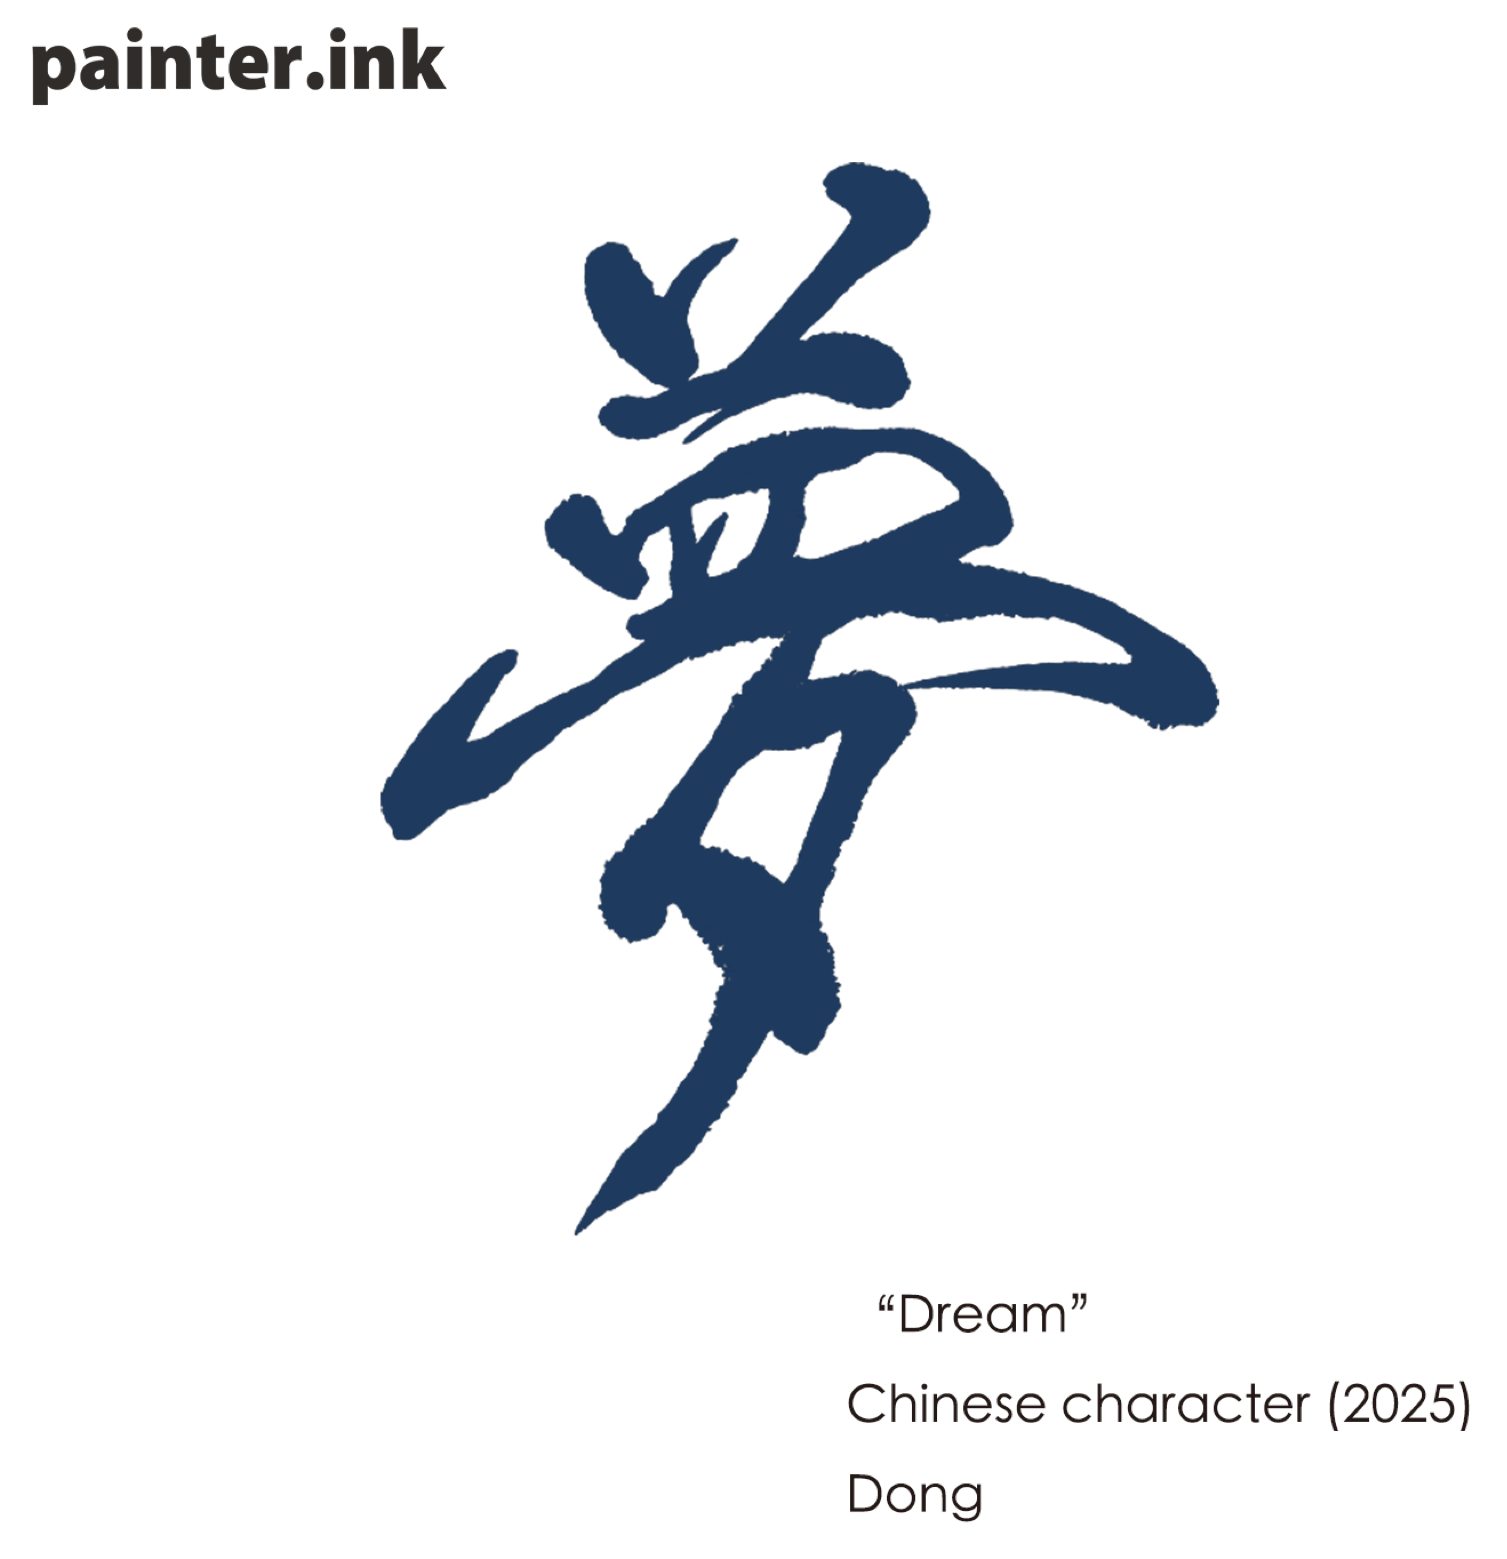
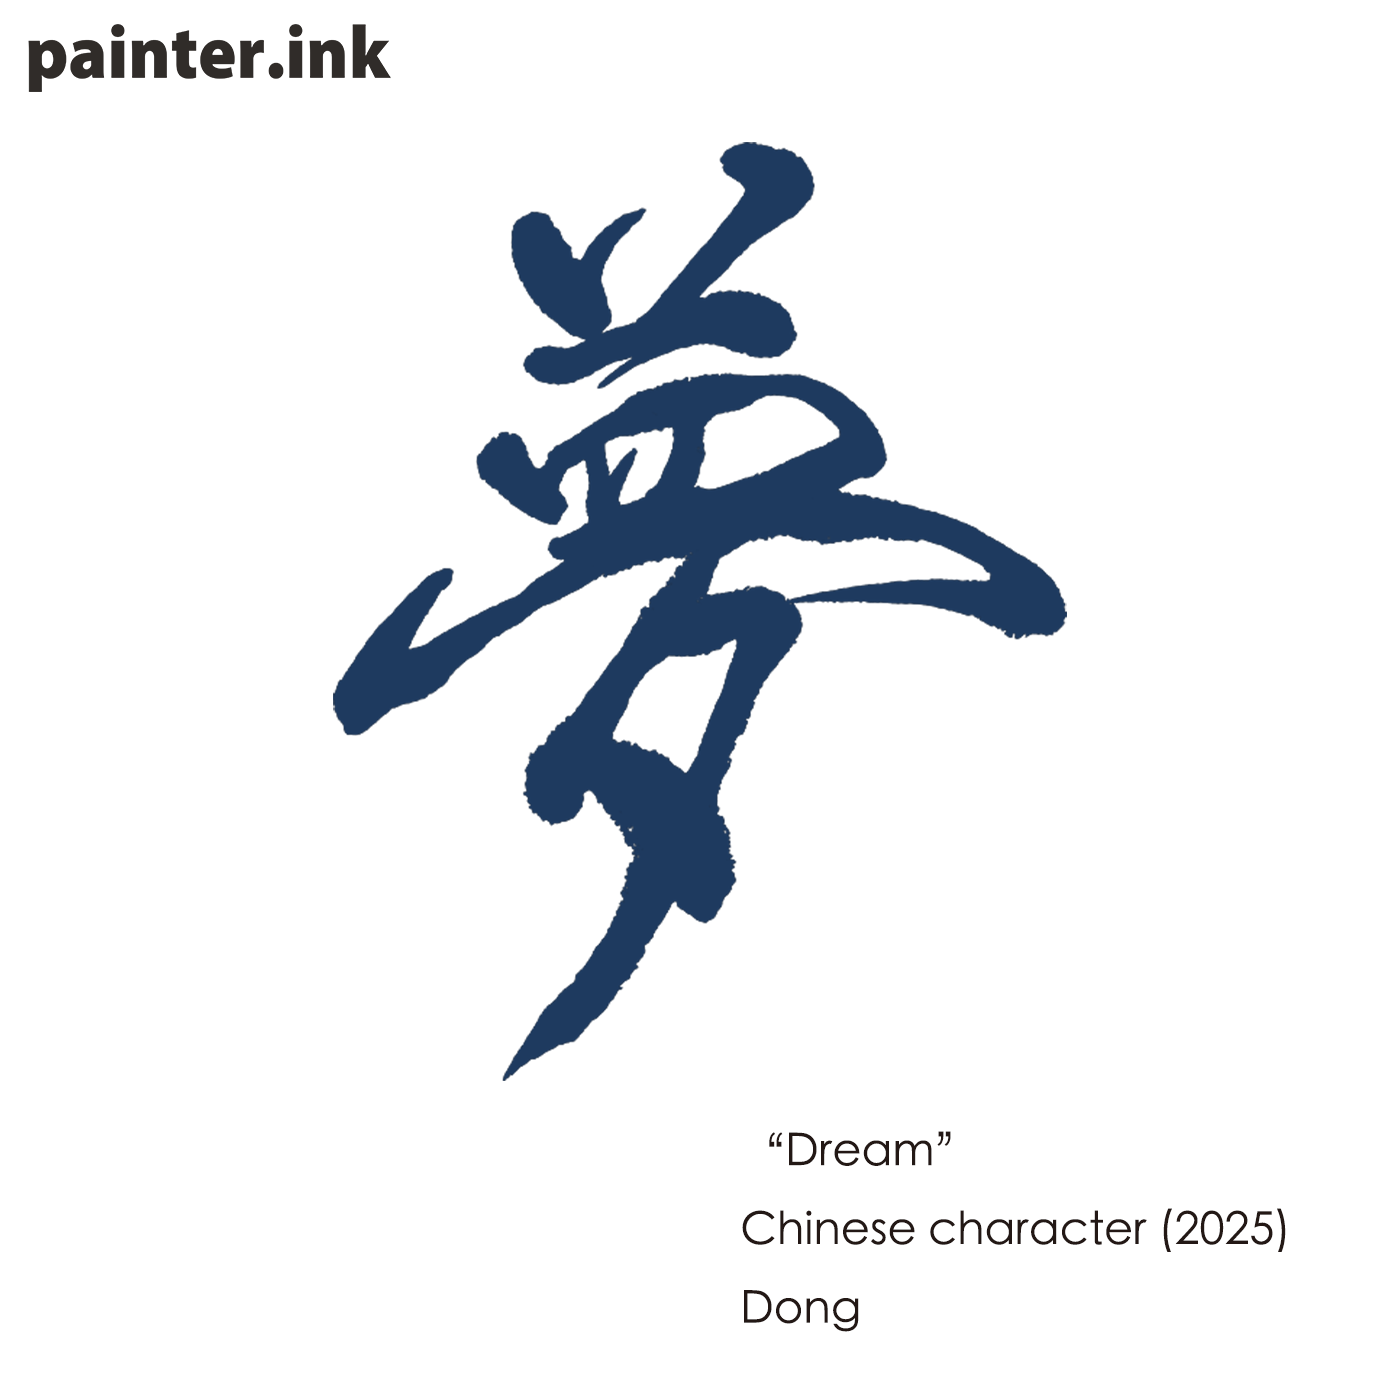
fix archive mobile layout and pti013 imagery

Changed region(s): [[0.215, 0.0921, 0.8293, 0.7986], [0.5221, 0.7986, 0.9829, 0.9829], [0.0307, 0.0, 0.3071, 0.0614]]

diff --git a/tests/archive-player.test.js b/tests/archive-player.test.js
@@ -45,6 +45,7 @@ assert.match(php, /Terms &amp; Conditions/);
 assert.match(php, /Refund &amp; Resolution Policy/);
 assert.doesNotMatch(php, /Historic images, restored for real skin\./);
 assert.match(php, /painter-archive__art-link/);
+assert.doesNotMatch(php, /is-single-image/);
 assert.match(php, /data-add-cart/);
 assert.match(php, /Add to cart/);
 assert.match(php, /View cart/);
@@ -81,6 +82,7 @@ assert.match(css, /\.painter-archive__toolbar\s*\{[^}]*height:58px/s);
 assert.match(css, /\.painter-archive__menu a:hover[^}]*color:#fff/s);
 assert.doesNotMatch(css, /painter-archive__toolbar a:first-of-type/);
 assert.match(css, /body\.painter-archive-page\s+\.painter-offer-bar\s*\{[^}]*display:none!important/s);
+assert.doesNotMatch(css, /painter-archive__wear\.is-single-image/);
 assert.match(css, /\.painter-archive__product-image img\.is-hover[^}]*background:transparent/s);
 assert.doesNotMatch(css, /perspective:/);
 assert.match(css, /@media \(max-width:\s*767px\)/);
@@ -88,9 +90,17 @@ assert.match(css, /@media \(max-width:\s*767px\)[^]*\.painter-archive__chrome\s*
 assert.match(css, /@media \(max-width:\s*767px\)[^]*\.painter-archive__chrome\s*\{[^}]*align-items:center/s);
 assert.match(css, /@media \(max-width:\s*767px\)[^]*\.painter-archive__left-controls\s*\{[^}]*gap:14px/s);
 assert.match(css, /@media \(max-width:\s*767px\)[^]*\.painter-archive__toolbar\s*\{[^}]*height:46px/s);
-assert.match(css, /@media \(max-width:\s*767px\)[^]*\.painter-archive__art-link\s*\{[^}]*width:86vw/s);
-assert.match(css, /@media \(max-width:\s*767px\)[^]*\.painter-archive__art-link\s*\{[^}]*height:44vh/s);
-assert.match(css, /@media \(max-width:\s*767px\)[^]*\.painter-archive__wear\s*\{[^}]*bottom:74px/s);
+assert.match(css, /@media \(max-width:\s*767px\)[^]*\.painter-archive__art-link\s*\{[^}]*width:78vw/s);
+assert.match(css, /@media \(max-width:\s*767px\)[^]*\.painter-archive__art-link\s*\{[^}]*height:39vh/s);
+assert.match(css, /@media \(max-width:\s*767px\)[^]*\.painter-archive__art-link\s*\{[^}]*translate\(-6vw,-4vh\)/s);
+assert.match(css, /@media \(max-width:\s*767px\)[^]*\.painter-archive__wear\s*\{[^}]*bottom:82px/s);
+assert.match(css, /@media \(max-width:\s*767px\)[^]*\.painter-archive__wear\s*\{[^}]*max-width:96px/s);
+assert.match(css, /@media \(max-width:\s*767px\)[^]*\.painter-archive__wear-actions\s*\{[^}]*right:0/s);
+assert.match(css, /@media \(max-width:\s*767px\)[^]*\.painter-archive__wear-actions\s*\{[^}]*transform:none/s);
 assert.match(css, /@media \(max-width:\s*767px\)[^]*\.painter-archive__caption-copy\s*\{[^}]*grid-template-columns:52px minmax\(0,1fr\) 98px/s);
+
+const functionsPhp = fs.readFileSync(path.join(root, 'wordpress/themes/flatsome-child/functions.php'), 'utf8');
+assert.match(functionsPhp, /is_front_page\(\)/);
+assert.match(functionsPhp, /is_page_template\( 'page-templates\/archive-player\.php' \)/);
 
 console.log('archive player static contract passed');

diff --git a/wordpress/themes/flatsome-child/assets/css/archive-player.css b/wordpress/themes/flatsome-child/assets/css/archive-player.css
@@ -39,7 +39,6 @@ body.painter-archive-page .painter-offer-bar { display:none!important; }
 .painter-archive__wear-actions { position:absolute; left:50%; top:calc(100% + 12px); display:flex; gap:8px; transform:translateX(-50%); white-space:nowrap; }
 .painter-archive__cart-action { display:inline-flex; align-items:center; justify-content:center; min-height:31px; padding:0 12px; border:1px solid #111; background:#111; color:#fff; font-size:10px; font-weight:700; letter-spacing:.02em; text-transform:uppercase; text-decoration:none; }
 .painter-archive__cart-action.is-secondary { background:rgba(247,246,242,.92); color:#111; }
-.painter-archive__wear.is-single-image { display:none; }
 .painter-archive__scene.is-active .painter-archive__art-link { transform:translateX(-7vw) scale(1); }
 .painter-archive__scene.is-active .painter-archive__wear { opacity:1; transform:translate3d(0,0,0); }
 .painter-archive__caption { position:fixed; z-index:24; inset:auto 0 0; height:var(--archive-caption-height); overflow:hidden; border-top:1px solid var(--caption-accent); background:#f4f3ef; transition:border-color 220ms ease; }
@@ -112,10 +111,10 @@ body.painter-archive-page .painter-offer-bar { display:none!important; }
 	.painter-view-icon--grid { width:6px; height:6px; margin:-9px 0 0 -9px; box-shadow:9px 0 currentColor,0 9px currentColor,9px 9px currentColor; }
 	.painter-archive__actions { gap:15px; }
 	.painter-archive__actions a { font-size:11px; }
-	.painter-archive__art-link { width:86vw; height:44vh; transform:translateY(-5vh) scale(.94); }
-	.painter-archive__scene.is-active .painter-archive__art-link { transform:translateY(-5vh) scale(1); }
-	.painter-archive__wear { right:7vw; bottom:74px; width:23vw; min-width:78px; max-width:112px; }
-	.painter-archive__wear-actions { top:calc(100% + 10px); gap:6px; }
+	.painter-archive__art-link { width:78vw; height:39vh; transform:translate(-6vw,-4vh) scale(.94); }
+	.painter-archive__scene.is-active .painter-archive__art-link { transform:translate(-6vw,-4vh) scale(1); }
+	.painter-archive__wear { right:5vw; bottom:82px; width:21vw; min-width:72px; max-width:96px; }
+	.painter-archive__wear-actions { left:auto; right:0; top:calc(100% + 10px); gap:6px; transform:none; }
 	.painter-archive__cart-action { min-height:31px; padding:0 10px; font-size:10px; }
 	.painter-archive { --archive-caption-height:150px; }
 	.painter-archive__caption-copy { grid-template-columns:52px minmax(0,1fr) 98px; gap:10px; padding:15px 14px 56px; }

diff --git a/wordpress/themes/flatsome-child/functions.php b/wordpress/themes/flatsome-child/functions.php
@@ -253,7 +253,7 @@ add_action( 'wp_footer', function () {
 }, 30 );
 
 add_action( 'wp_body_open', function () {
-	if ( is_cart() || is_checkout() || is_account_page() ) {
+	if ( is_front_page() || is_page_template( 'page-templates/archive-player.php' ) || is_cart() || is_checkout() || is_account_page() ) {
 		return;
 	}
 	?>

diff --git a/wordpress/themes/flatsome-child/page-templates/archive-player.php b/wordpress/themes/flatsome-child/page-templates/archive-player.php
@@ -87,7 +87,7 @@ $cart_url = function_exists( 'wc_get_cart_url' ) ? wc_get_cart_url() : home_url(
 					<a class="painter-archive__art-link" href="<?php echo esc_url( $scene['product'] ); ?>" aria-label="View <?php echo esc_attr( $scene['title'] ); ?>">
 						<img class="painter-archive__art" src="<?php echo esc_url( $scene['art'] ); ?>" alt="<?php echo esc_attr( $scene['title'] ); ?> original artwork" <?php echo 0 === $index ? 'fetchpriority="high"' : 'loading="lazy"'; ?>>
 					</a>
-					<div class="painter-archive__wear<?php echo 'PTI-013' === $scene['sku'] ? ' is-single-image' : ''; ?>">
+					<div class="painter-archive__wear">
 						<a class="painter-archive__wear-image" href="<?php echo esc_url( $scene['product'] ); ?>" aria-label="Shop <?php echo esc_attr( $scene['title'] ); ?>">
 							<img src="<?php echo esc_url( $scene['wear'] ); ?>" alt="<?php echo esc_attr( $scene['title'] ); ?> temporary tattoo on skin" loading="<?php echo 0 === $index ? 'eager' : 'lazy'; ?>">
 						</a>